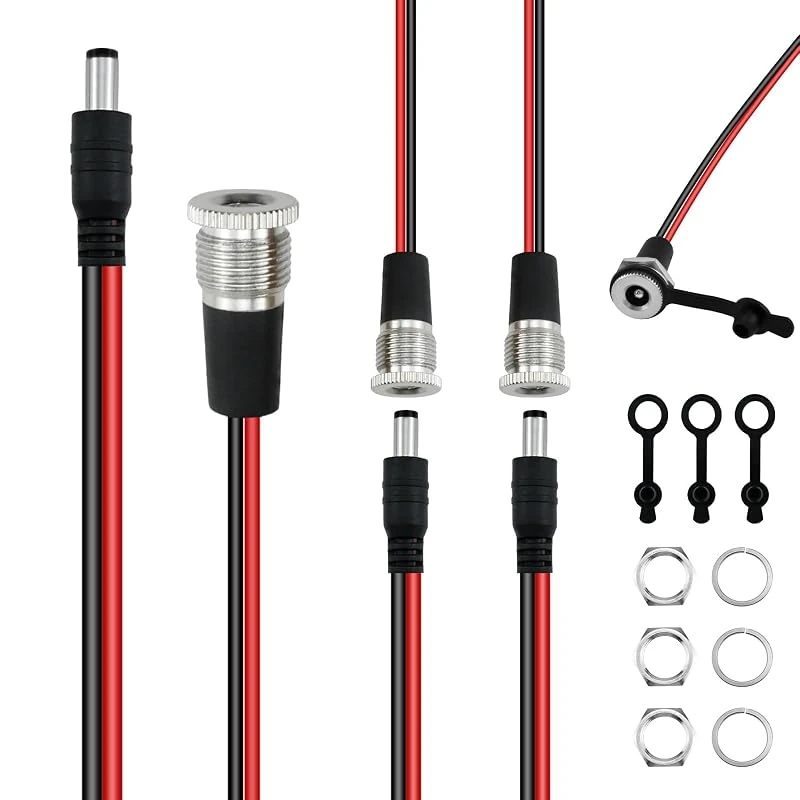
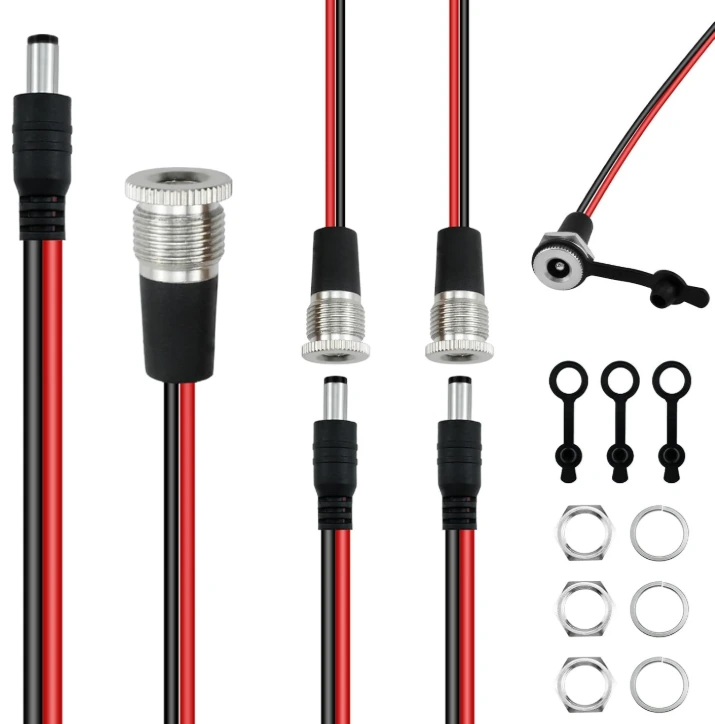
Document exact Amazon parts, Tolex order, and estimated sales tax

diff --git a/parts.html b/parts.html
@@ -14,9 +14,9 @@
 <dl class="board-specs"><div><dt>Flash</dt><dd>16 MB</dd></div><div><dt>PSRAM</dt><dd>8 MB</dd></div><div><dt>Radio</dt><dd>Bluetooth LE</dd></div></dl>
 <div class="actions"><a class="button primary" href="wiring.html#hub75">See the wiring map ↗</a><a class="button" href="https://docs.espressif.com/projects/esp-dev-kits/en/latest/esp32s3/esp32-s3-devkitc-1/user_guide_v1.1.html">Espressif board guide ↗</a></div></div>
 <figure class="detail-photo"><a href="docs/images/gpio_layout.png"><img src="docs/images/gpio_layout.png" alt="Reference photo of an ESP32-S3 board with its GPIO pins labeled" width="943" height="747"></a><figcaption>ESP32-S3 pinout reference</figcaption></figure></article>
-<div class="budget"><div><p class="eyebrow">Subtotal for priced items</p><p class="budget-total" id="budget-total" aria-live="polite">$136.72</p><p id="budget-detail">7 of 10 line items priced</p></div><div><p>Prices are in USD. Prefilled figures combine the panel’s delivered cost, retail price references, and estimates for the ESP32-S3 and button set. Enter a price for each row, including sets or quantities, to build your own estimate.</p><p class="small">Add taxes and shipping to your line costs if you want them included.</p><button class="button" type="reset" form="budget-form">Reset prices</button></div></div>
-<form id="budget-form" action="parts.html"><div class="table-wrap"><table class="parts-table"><thead><tr><th scope="col">Component</th><th scope="col">Quantity</th><th scope="col">Reference USD</th><th scope="col">Your USD</th></tr></thead><tbody><tr><th scope="row">P2 RGB matrix<small>128 × 64, 256 × 128 mm, HUB75E, 1/32 scan, ICN2038S-family driver</small></th><td>1</td><td>$29.88 item<br>$46.05 delivered</td><td><label class="sr-only" for="part-0">Your line cost for P2 RGB matrix</label><input id="part-0" name="part-0" type="number" min="0" step="0.01" inputmode="decimal" value="46.05" placeholder="—"></td></tr><tr><th scope="row">ESP32-S3 controller<small>DevKitC-1 N16R8, 16 MB flash / 8 MB PSRAM</small></th><td>1</td><td>≈$19.00</td><td><label class="sr-only" for="part-1">Your line cost for ESP32-S3 controller</label><input id="part-1" name="part-1" type="number" min="0" step="0.01" inputmode="decimal" value="19.00" placeholder="—"></td></tr><tr><th scope="row">HUB75 adapter<small>LLidgermal ESP32 LED Matrix Adapter · Dual Power Input &amp; HUB75 Interface</small><a class="part-photo" href="site-assets/llidgermal-hub75-adapter.webp"><img src="site-assets/llidgermal-hub75-adapter.webp" alt="LLidgermal HUB75 adapter with ESP32 headers and red power connectors" loading="lazy"></a><a href="https://www.amazon.com/dp/B0FVNMRRTB">Amazon · B0FVNMRRTB ↗</a></th><td>1</td><td>$24.80 listing</td><td><label class="sr-only" for="part-2">Your line cost for HUB75 adapter</label><input id="part-2" name="part-2" type="number" min="0" step="0.01" inputmode="decimal" value="24.80" placeholder="—"></td></tr><tr><th scope="row">5 V DC power supply<small>ADRESUNO 5 V / 10 A / 50 W</small><a class="part-photo" href="site-assets/adresuno-5v-power-supply.webp"><img src="site-assets/adresuno-5v-power-supply.webp" alt="ADRESUNO 5 V power brick, AC cord, and barrel connector" loading="lazy"></a><a href="https://www.amazon.com/dp/B0D76F4W1C">Amazon · B0D76F4W1C ↗</a></th><td>1</td><td>$19.99<small><a href="https://www.asinsight.com/report/US/5v-5a-power-supply">Amazon price tracker snapshot</a></small></td><td><label class="sr-only" for="part-3">Your line cost for 5 V DC power supply</label><input id="part-3" name="part-3" type="number" min="0" step="0.01" inputmode="decimal" value="19.99" placeholder="—"></td></tr><tr><th scope="row">Panel DC jack<small>SDTC Tech 5.5 × 2.5 mm threaded jack and pigtail · three sets per kit, one used</small><a class="part-photo" href="site-assets/sdtc-dc-jack-kit.webp"><img src="site-assets/sdtc-dc-jack-kit.webp" alt="SDTC Tech threaded DC sockets, barrel pigtails, dust caps, and mounting hardware" loading="lazy"></a><a href="https://www.amazon.com/dp/B0B6FFN4V5">Amazon · B0B6FFN4V5 ↗</a></th><td>1 kit</td><td>$8.99<small><a href="https://tiendamia.com.uy/p/amz/b0b6ffn4v5/sdtc-tech-3-juegos-de-0-2-x-0-1-in-10a">Tiendamia listing · three-set kit</a></small></td><td><label class="sr-only" for="part-4">Your line cost for Panel DC jack</label><input id="part-4" name="part-4" type="number" min="0" step="0.01" inputmode="decimal" value="8.99" placeholder="—"></td></tr><tr><th scope="row">Panel USB-C extension<small>Poyiccot 1 ft panel-mount data extension</small><a class="part-photo" href="site-assets/poyiccot-panel-usbc.webp"><img src="site-assets/poyiccot-panel-usbc.webp" alt="Poyiccot USB-C cable with a screw-mount female socket and a male plug" loading="lazy"></a><a href="https://www.amazon.com/dp/B086YBP5VW">Amazon · B086YBP5VW ↗</a></th><td>1</td><td>$9.89<small><a href="https://www.amazon.com/dp/B086YBP5VW">Amazon listing</a></small></td><td><label class="sr-only" for="part-5">Your line cost for Panel USB-C extension</label><input id="part-5" name="part-5" type="number" min="0" step="0.01" inputmode="decimal" value="9.89" placeholder="—"></td></tr><tr><th scope="row">Illuminated buttons<small>12 mm momentary, three used</small></th><td>1 set</td><td>≈$8.00</td><td><label class="sr-only" for="part-6">Your line cost for Illuminated buttons</label><input id="part-6" name="part-6" type="number" min="0" step="0.01" inputmode="decimal" value="8.00" placeholder="—"></td></tr><tr><th scope="row">Corner protectors<small>uxcell gold-tone corner protectors with screws. Installed size and price unconfirmed.</small><a class="part-photo" href="site-assets/uxcell-corner-protectors.webp"><img src="site-assets/uxcell-corner-protectors.webp" alt="Gold-tone uxcell corner covers and mounting screws from the listing" loading="lazy"></a><a href="https://www.amazon.com/dp/B0DBG9KCJX">Amazon · B0DBG9KCJX ↗</a></th><td>1 set</td><td>$9.89 listing<br><small>Returned 33 mm selection</small></td><td><label class="sr-only" for="part-7">Your line cost for Corner protectors</label><input id="part-7" name="part-7" type="number" min="0" step="0.01" inputmode="decimal" placeholder="—"></td></tr><tr><th scope="row">Cabinet and finish<small>Wood, Tolex, adhesive, and fasteners</small></th><td>1 build</td><td>Pending</td><td><label class="sr-only" for="part-8">Your line cost for Cabinet and finish</label><input id="part-8" name="part-8" type="number" min="0" step="0.01" inputmode="decimal" placeholder="—"></td></tr><tr><th scope="row">Wiring and connectors<small>HUB75 ribbon, power wire, connectors, and consumables</small></th><td>1 lot</td><td>Pending</td><td><label class="sr-only" for="part-9">Your line cost for Wiring and connectors</label><input id="part-9" name="part-9" type="number" min="0" step="0.01" inputmode="decimal" placeholder="—"></td></tr></tbody></table></div></form>
-<p class="small">The $136.72 starting subtotal covers seven items and is a partial build estimate. Retail prices can change. The $9.89 corner listing is a reference for the returned 33 mm selection and is excluded.</p><details><summary>See the final panel’s delivered cost breakdown</summary><p class="small">Item $29.88 + shipping $20.68 − shipping discount $20.00 + import charges $10.59 + sales tax $4.90 = <strong>$46.05 delivered</strong>.</p></details><div class="component-photos">
+<div class="budget"><div><p class="eyebrow">Subtotal for priced items</p><p class="budget-total" id="budget-total" aria-live="polite">$173.81</p><p id="budget-detail">8 of 11 line items priced</p><p class="small" id="budget-tax">Includes $5.09 estimated Amazon sales tax</p></div><div><p>Prices are in USD. Prefilled figures include the delivered panel and Tolex, Amazon prices, and estimates for the ESP32-S3 and button set. Enter a price for each row, including sets or quantities, to build your own estimate.</p><p class="small">Amazon rows add 8% sales tax automatically. Enter Amazon amounts before tax. The panel and Tolex already include their documented delivery costs.</p><button class="button" type="reset" form="budget-form">Reset prices</button></div></div>
+<form id="budget-form" action="parts.html"><div class="table-wrap"><table class="parts-table"><thead><tr><th scope="col">Component</th><th scope="col">Quantity</th><th scope="col">Reference USD</th><th scope="col">Your base USD</th></tr></thead><tbody><tr><th scope="row">P2 RGB matrix<small>128 × 64, 256 × 128 mm, HUB75E, 1/32 scan, ICN2038S-family driver</small></th><td>1</td><td>$29.88 item<br>$46.05 delivered</td><td><label class="sr-only" for="part-0">Your line cost for P2 RGB matrix</label><input id="part-0" name="part-0" type="number" min="0" step="0.01" inputmode="decimal" value="46.05" placeholder="—"></td></tr><tr><th scope="row">ESP32-S3 controller<small>DevKitC-1 N16R8, 16 MB flash / 8 MB PSRAM</small></th><td>1</td><td>≈$19.00</td><td><label class="sr-only" for="part-1">Your line cost for ESP32-S3 controller</label><input id="part-1" name="part-1" type="number" min="0" step="0.01" inputmode="decimal" value="19.00" placeholder="—"></td></tr><tr><th scope="row">HUB75 adapter<small>LLidgermal ESP32 LED Matrix Adapter · Dual Power Input &amp; HUB75 Interface</small><a class="part-photo" href="site-assets/llidgermal-hub75-adapter.webp"><img src="site-assets/llidgermal-hub75-adapter.webp" alt="LLidgermal HUB75 adapter with ESP32 headers and red power connectors" loading="lazy"></a><a href="https://www.amazon.com/dp/B0FVNMRRTB">Amazon · B0FVNMRRTB ↗</a></th><td>1</td><td>$24.80<small>Amazon listing · $26.78 with tax</small></td><td><label class="sr-only" for="part-2">Your line cost for HUB75 adapter</label><input data-amazon-tax id="part-2" name="part-2" type="number" min="0" step="0.01" inputmode="decimal" value="24.80" placeholder="—"></td></tr><tr><th scope="row">5 V DC power supply<small>ADRESUNO 5 V / 10 A / 50 W</small><a class="part-photo" href="site-assets/adresuno-5v-power-supply.webp"><img src="site-assets/adresuno-5v-power-supply.webp" alt="ADRESUNO 5 V power brick, AC cord, and barrel connector" loading="lazy"></a><a href="https://www.amazon.com/dp/B0D76F4W1C">Amazon · B0D76F4W1C ↗</a></th><td>1</td><td>$19.99<small><a href="https://www.amazon.com/dp/B0D76F4W1C">Amazon listing · $21.59 with tax</a></small></td><td><label class="sr-only" for="part-3">Your line cost for 5 V DC power supply</label><input data-amazon-tax id="part-3" name="part-3" type="number" min="0" step="0.01" inputmode="decimal" value="19.99" placeholder="—"></td></tr><tr><th scope="row">Panel DC jack<small>SDTC Tech 5.5 × 2.5 mm threaded jack and pigtail · three sets per kit, one used</small><a class="part-photo" href="site-assets/sdtc-dc-jack-kit.webp"><img src="site-assets/sdtc-dc-jack-kit.webp" alt="SDTC Tech threaded DC sockets, barrel pigtails, dust caps, and mounting hardware" loading="lazy"></a><a href="https://www.amazon.com/dp/B0B6FFN4V5">Amazon · B0B6FFN4V5 ↗</a></th><td>1 kit</td><td>$8.99<small><a href="https://www.amazon.com/dp/B0B6FFN4V5">Amazon purchase price · $9.71 with tax</a></small></td><td><label class="sr-only" for="part-4">Your line cost for Panel DC jack</label><input data-amazon-tax id="part-4" name="part-4" type="number" min="0" step="0.01" inputmode="decimal" value="8.99" placeholder="—"></td></tr><tr><th scope="row">Panel USB-C extension<small>Poyiccot 1 ft panel-mount data extension</small><a class="part-photo" href="site-assets/poyiccot-panel-usbc.webp"><img src="site-assets/poyiccot-panel-usbc.webp" alt="Poyiccot USB-C cable with a screw-mount female socket and a male plug" loading="lazy"></a><a href="https://www.amazon.com/dp/B086YBP5VW">Amazon · B086YBP5VW ↗</a></th><td>1</td><td>$9.89<small><a href="https://www.amazon.com/dp/B086YBP5VW">Amazon listing · $10.68 with tax</a></small></td><td><label class="sr-only" for="part-5">Your line cost for Panel USB-C extension</label><input data-amazon-tax id="part-5" name="part-5" type="number" min="0" step="0.01" inputmode="decimal" value="9.89" placeholder="—"></td></tr><tr><th scope="row">Illuminated buttons<small>12 mm momentary, three used</small></th><td>1 set</td><td>≈$8.00</td><td><label class="sr-only" for="part-6">Your line cost for Illuminated buttons</label><input id="part-6" name="part-6" type="number" min="0" step="0.01" inputmode="decimal" value="8.00" placeholder="—"></td></tr><tr><th scope="row">Corner protectors<small>uxcell gold-tone corner protectors with screws. Installed size and price unconfirmed.</small><a class="part-photo" href="site-assets/uxcell-corner-protectors.webp"><img src="site-assets/uxcell-corner-protectors.webp" alt="Gold-tone uxcell corner covers and mounting screws from the listing" loading="lazy"></a><a href="https://www.amazon.com/dp/B0DBG9KCJX">Amazon · B0DBG9KCJX ↗</a></th><td>1 set</td><td>$9.89 listing<br><small>Returned 33 mm selection · $10.68 with tax</small></td><td><label class="sr-only" for="part-7">Your line cost for Corner protectors</label><input data-amazon-tax id="part-7" name="part-7" type="number" min="0" step="0.01" inputmode="decimal" placeholder="—"></td></tr><tr><th scope="row">Cabinet materials<small>Wood, adhesive, and fasteners</small></th><td>1 build</td><td>Pending</td><td><label class="sr-only" for="part-8">Your line cost for Cabinet and finish</label><input id="part-8" name="part-8" type="number" min="0" step="0.01" inputmode="decimal" placeholder="—"></td></tr><tr><th scope="row">Wiring and connectors<small>HUB75 ribbon, power wire, connectors, and consumables</small></th><td>1 lot</td><td>Pending</td><td><label class="sr-only" for="part-9">Your line cost for Wiring and connectors</label><input id="part-9" name="part-9" type="number" min="0" step="0.01" inputmode="decimal" placeholder="—"></td></tr><tr><th scope="row">Cabinet covering<small>Mojotone Fender Style Smooth Brown Vinyl Tolex · 54″ × 36″ cut, item 7311003</small><a class="part-photo" href="site-assets/mojotone-smooth-brown-tolex.webp"><img src="site-assets/mojotone-smooth-brown-tolex.webp" alt="Mojotone smooth brown vinyl Tolex sample" loading="lazy"></a><a href="https://mojotone.com/products/fender-style-smooth-brown-vinyl-tolex-54-width?variant=41689733595232">Mojotone · 7311003 ↗</a></th><td>1 cut</td><td>$22.05 item<br>$9.95 shipping<br><strong>$32.00 delivered</strong></td><td><label class="sr-only" for="part-10">Your delivered cost for cabinet covering</label><input id="part-10" name="part-10" type="number" min="0" step="0.01" inputmode="decimal" value="32.00"></td></tr></tbody></table></div></form>
+<p class="small">The $173.81 starting subtotal is a partial build estimate. It includes $5.09 estimated Amazon tax. The returned 33 mm corner listing is excluded.</p><details><summary>See the final panel’s delivered cost breakdown</summary><p class="small">Item $29.88 + shipping $20.68 − shipping discount $20.00 + import charges $10.59 + sales tax $4.90 = <strong>$46.05 delivered</strong>.</p></details><div class="component-photos">
 <figure class="detail-photo"><img src="site-assets/scoreboard-powered.webp" alt="The final RGB matrix powered on and displaying green HOME and blue AWAY scores" loading="lazy"><figcaption>P2 RGB matrix installed in the finished cabinet</figcaption></figure>
 <figure class="detail-photo"><img src="docs/images/button_harness.png" alt="Three momentary push buttons with their wires assembled into a harness" loading="lazy"><figcaption>Three momentary switches and their wiring harness</figcaption></figure>
 </div><p class="small">The original P1.53 prototype panel and shipping totaled $77.95. The finished scoreboard uses the P2 panel above.</p>

diff --git a/build.html b/build.html
@@ -12,7 +12,7 @@
 <section id="firmware" class="guide-section"><h2>Flash and test</h2><p>In Arduino IDE select <strong>ESP32S3 Dev Module</strong> and the serial port that appears when you plug in the board. The firmware compiled with Arduino-ESP32 <strong>3.3.7</strong>. Install <strong>ESP32 HUB75 MatrixPanel I2S DMA</strong> and <strong>Adafruit GFX</strong>.</p>
 <div class="choice"><div><h3>Physical controls</h3><p>Use the standalone sketch to score from the cabinet buttons.</p><a href="https://github.com/mjf028/scoreboard-pages/blob/main/firmware/scoreboard/scoreboard.ino">Open standalone sketch ↗</a></div><div><h3>Physical controls + Bluetooth</h3><p>Use the BLE sketch for the buttons and the iPhone controller, including editable names.</p><a href="https://github.com/mjf028/scoreboard-pages/blob/main/firmware/scoreboard_ble/scoreboard_ble.ino">Open BLE sketch ↗</a></div></div>
 <p>Keep each sketch in its matching folder. Upload, then test a short press and a hold of at least 600 ms on each score button. Hold Reset to clear both scores. The lower blue row is Player 1 and the upper green row is Player 2.</p><a href="https://github.com/mjf028/scoreboard-pages/blob/main/docs/BLE-FIRMWARE-AND-NRF-CONNECT.md">BLE protocol and nRF Connect checklist ↗</a></section>
-<section id="enclosure" class="guide-section"><h2>Fit the cabinet</h2><p>Measure your panel before cutting the opening. The documented panel is 256 × 128 mm, but leave room for its frame, connectors, and ribbon cable. Dry-fit the top buttons, DC jack, and USB-C extension before applying the Tolex. Keep the rear panel removable for service and leave clearance around the wiring.</p><div class="build-gallery"><figure class="detail-photo build-photo side-ports"><a href="site-assets/cabinet-side-ports.webp"><img src="site-assets/cabinet-side-ports.webp" alt="Side of the Tolex-covered cabinet with the USB-C service port above the DC power jack" loading="lazy"></a><figcaption>Side panel · USB-C for service, DC jack for power</figcaption></figure><figure class="detail-photo build-photo "><a href="site-assets/cabinet-open.webp"><img src="site-assets/cabinet-open.webp" alt="Open scoreboard cabinet showing the LED matrix, adapter, ribbon cable, and wire routing" loading="lazy"></a><figcaption>Rear access · matrix, adapter, and wiring</figcaption></figure></div><p>The side-mounted connectors keep power and USB service reachable from outside. Inside, the removable rear panel gives access to the adapter and matrix connections.</p><div class="actions"><a class="button" href="wiring.html#inside">See the installed wiring ↗</a><a class="button" href="https://github.com/mjf028/scoreboard-pages/blob/main/docs/hardware.md">Full hardware notes ↗</a></div></section>
+<section id="enclosure" class="guide-section"><h2>Fit the cabinet</h2><p>Measure your panel before cutting the opening. The documented panel is 256 × 128 mm, but leave room for its frame, connectors, and ribbon cable. Dry-fit the top buttons, DC jack, and USB-C extension before applying the <a href="https://mojotone.com/products/fender-style-smooth-brown-vinyl-tolex-54-width?variant=41689733595232">Mojotone smooth brown vinyl Tolex</a>. Keep the rear panel removable for service and leave clearance around the wiring.</p><div class="build-gallery"><figure class="detail-photo build-photo side-ports"><a href="site-assets/cabinet-side-ports.webp"><img src="site-assets/cabinet-side-ports.webp" alt="Side of the Tolex-covered cabinet with the USB-C service port above the DC power jack" loading="lazy"></a><figcaption>Side panel · USB-C for service, DC jack for power</figcaption></figure><figure class="detail-photo build-photo "><a href="site-assets/cabinet-open.webp"><img src="site-assets/cabinet-open.webp" alt="Open scoreboard cabinet showing the LED matrix, adapter, ribbon cable, and wire routing" loading="lazy"></a><figcaption>Rear access · matrix, adapter, and wiring</figcaption></figure></div><p>The side-mounted connectors keep power and USB service reachable from outside. Inside, the removable rear panel gives access to the adapter and matrix connections.</p><div class="actions"><a class="button" href="wiring.html#inside">See the installed wiring ↗</a><a class="button" href="https://github.com/mjf028/scoreboard-pages/blob/main/docs/hardware.md">Full hardware notes ↗</a></div></section>
 <section id="panel-history" class="guide-section"><p class="eyebrow">What changed on the bench</p><h2>The P1.53 detour</h2>
 <p>The first panel was a 320 × 160 mm LEDLightsWorld commercial-signage module with 208 × 104 pixels and 1/52 scan. It cost <strong>$58.95 plus $19.00 shipping</strong>. The connector looked familiar, but that geometry and scan arrangement didn’t come up reliably with this ESP32 direct-drive setup.</p>
 <div class="choice panel-compare"><div><h3>P1.53 prototype</h3><p>208 × 104 pixels · 1/52 scan</p><p><strong>$77.95</strong> including shipping</p></div><div><h3>P2 production panel</h3><p>128 × 64 pixels · 1/32 scan</p><p><strong>$46.05</strong> delivered</p></div></div>

diff --git a/site-assets/budget.js b/site-assets/budget.js
@@ -2,12 +2,23 @@ const form = document.querySelector("#budget-form");
 const inputs = [...form.querySelectorAll("input")];
 const total = document.querySelector("#budget-total");
 const detail = document.querySelector("#budget-detail");
+const tax = document.querySelector("#budget-tax");
+const amazonTaxPercent = 8;
 const currency = new Intl.NumberFormat("en-US", { style: "currency", currency: "USD" });
 
 function updateSubtotal() {
   const entered = inputs.filter((input) => input.value !== "" && input.validity.valid);
-  const cents = entered.reduce((sum, input) => sum + Math.round(input.valueAsNumber * 100), 0);
-  total.textContent = currency.format(cents / 100);
+  let cents = 0;
+  let taxCents = 0;
+  for (const input of entered) {
+    const lineCents = Math.round(input.valueAsNumber * 100);
+    cents += lineCents;
+    if (input.hasAttribute("data-amazon-tax")) {
+      taxCents += Math.round(lineCents * amazonTaxPercent / 100);
+    }
+  }
+  total.textContent = currency.format((cents + taxCents) / 100);
+  tax.textContent = "Includes " + currency.format(taxCents / 100) + " estimated Amazon sales tax";
   detail.textContent = entered.length + " of " + inputs.length + " line items priced";
 }
 

diff --git a/docs/bill-of-materials.md b/docs/bill-of-materials.md
@@ -8,21 +8,21 @@ This is the hardware record for the completed scoreboard. Where an exact purchas
 |---|---|---:|---|---:|---|
 | RGB matrix panel | P2 indoor RGB HUB75/HUB75E, 256×128 mm, 128×64, 1/32 scan, SMD1515, Chipone 2038S-family driver | 1 | Original order | $29.88 item / $46.05 delivered | Production display |
 | ESP32 controller | ESP32-S3-DevKitC-1 N16R8, 16 MB flash / 8 MB PSRAM | 1 | ESP32-S3 purchase | ≈$19 | Main controller; provides Wi-Fi/BLE capability for future expansion |
-| HUB75 adapter | LLidgermal **ESP32 LED Matrix Adapter Board with Dual Power Input & HUB75 Interface** | 1 | [Amazon B0FVNMRRTB](https://www.amazon.com/dp/B0FVNMRRTB) | $24.80 current listing shown in project record | Connects the ESP32-S3 to the HUB75 panel and provides convenient power distribution; listing supports ESP32/ESP32-S3 |
-| Production power supply | ADRESUNO **5V 10A 50W AC/DC power supply** | 1 | [Amazon B0D76F4W1C](https://www.amazon.com/dp/B0D76F4W1C) | [$19.99 · Amazon price tracker snapshot](https://www.asinsight.com/report/US/5v-5a-power-supply) | **Final production PSU**; 100–240V AC input, regulated 5V DC / 10A output |
-| Panel-mount DC connector | SDTC Tech **5.5×2.5 mm 10A threaded female DC power jack + male pigtail kit** | 1 set/component used | [Amazon B0B6FFN4V5](https://www.amazon.com/dp/B0B6FFN4V5) | [$8.99 · Tiendamia listing · three-set kit](https://tiendamia.com.uy/p/amz/b0b6ffn4v5/sdtc-tech-3-juegos-de-0-2-x-0-1-in-10a) | Brings the 5V supply connection cleanly through the enclosure |
-| Panel-mount USB-C extension | Poyiccot **USB 3.1 Type-C panel-mount extension cable**, 1 ft, male-to-female, 10 Gbps / 60W | 1 | [Amazon B086YBP5VW](https://www.amazon.com/dp/B086YBP5VW) | [$9.89 · Amazon listing](https://www.amazon.com/dp/B086YBP5VW) | External USB-C access for programming/service without opening the enclosure |
-| Decorative corner protectors | uxcell **Decorative Box Corner Cover / Metal Edge Guard with screws**, gold | 4 | [Amazon B0DBG9KCJX](https://www.amazon.com/dp/B0DBG9KCJX) | $9.89 listing for the returned 33 mm selection | Brass/gold-tone enclosure corner protection. Check the size against your enclosure. |
+| HUB75 adapter | LLidgermal **ESP32 LED Matrix Adapter Board with Dual Power Input & HUB75 Interface** | 1 | [Amazon B0FVNMRRTB](https://www.amazon.com/dp/B0FVNMRRTB) | $24.80 Amazon listing / $26.78 with 8% tax | Connects the ESP32-S3 to the HUB75 panel and provides convenient power distribution; listing supports ESP32/ESP32-S3 |
+| Production power supply | ADRESUNO **5V 10A 50W AC/DC power supply** | 1 | [Amazon B0D76F4W1C](https://www.amazon.com/dp/B0D76F4W1C) | $19.99 Amazon listing / $21.59 with 8% tax | **Final production PSU**; 100–240V AC input, regulated 5V DC / 10A output |
+| Panel-mount DC connector | SDTC Tech **5.5×2.5 mm 10A threaded female DC power jack + male pigtail kit** | 1 set/component used | [Amazon B0B6FFN4V5](https://www.amazon.com/dp/B0B6FFN4V5) | $8.99 Amazon purchase price for three-set kit / $9.71 with 8% tax | Brings the 5V supply connection cleanly through the enclosure |
+| Panel-mount USB-C extension | Poyiccot **USB 3.1 Type-C panel-mount extension cable**, 1 ft, male-to-female, 10 Gbps / 60W | 1 | [Amazon B086YBP5VW](https://www.amazon.com/dp/B086YBP5VW) | $9.89 Amazon listing / $10.68 with 8% tax | External USB-C access for programming/service without opening the enclosure |
+| Decorative corner protectors | uxcell **Decorative Box Corner Cover / Metal Edge Guard with screws**, gold | 4 | [Amazon B0DBG9KCJX](https://www.amazon.com/dp/B0DBG9KCJX) | $9.89 Amazon listing / $10.68 with 8% tax (returned 33 mm selection) | Brass/gold-tone enclosure corner protection. Check the size against your enclosure. |
 | Illuminated momentary buttons | 12 mm illuminated momentary push buttons | 3 | Button set | ≈$8/set | Player One, Player Two and Reset controls |
 | Enclosure | Custom wood box / frame | 1 | Fabricated for project | Not recovered | Supports the panel, controls and electronics |
-| Exterior finish | Brown textured enclosure covering/finish | — | Build material | Not recovered | Final exterior finish |
+| Exterior finish | Mojotone Fender Style Smooth Brown Vinyl Tolex, 54″ × 36″ cut, item 7311003 | 1 cut | [Mojotone](https://mojotone.com/products/fender-style-smooth-brown-vinyl-tolex-54-width?variant=41689733595232) | $22.05 item + $9.95 shipping = $32.00 delivered | Cabinet wrap |
 | Wiring / assembly hardware | Wire, HUB75 ribbon, connectors, fasteners, adhesive and miscellaneous consumables | — | Various | Not recovered | Internal assembly |
 
 ## Known production hardware
 
 The production power path is no longer an unknown: the finished scoreboard uses the **ADRESUNO 5V 10A 50W supply (ASIN B0D76F4W1C)**. The enclosure also uses the **SDTC Tech 5.5×2.5 mm panel-mount DC connector**, while the **Poyiccot panel-mount USB-C extension** provides service/programming access. The ESP32-S3 connects to the matrix through the **LLidgermal HUB75 adapter board**.
 
-The exact *paid* prices for several of these items are still not present in the project records, so they are intentionally left as `Not recovered`. A current/listing price is only shown where a supplied project screenshot recorded it; it should not be interpreted as the historical purchase price.
+The build estimate applies 8% sales tax to Amazon lines, rounded to the nearest cent per line. The panel and Tolex use their delivered costs. The partial estimate is **$173.81**, including **$5.09** Amazon tax and excluding the returned corner-protector selection. Listing figures are budget references.
 
 The final P2 panel order was $29.88 for the item, $20.68 shipping, −$20.00 shipping discount, $10.59 import charges, and $4.90 sales tax, for a **$46.05 delivered cost**.
 
@@ -55,8 +55,8 @@ This table is retained only as historical planning context. It is **not** the fi
 To turn the BOM into an exact project-cost ledger, the remaining useful order details are:
 
 1. Installed corner protector size and purchase price
-2. Actual paid prices for the ESP32-S3, LLidgermal adapter, ADRESUNO PSU, DC jack, USB-C extension, corner protectors and button set
-3. Enclosure wood/material and exterior finish cost
+2. Actual paid prices for the ESP32-S3, LLidgermal adapter, ADRESUNO PSU, USB-C extension, and button set
+3. Cabinet wood, adhesive, and fastener costs
 4. Miscellaneous connectors, wire and fasteners if consumables are to be included
 
 The component identities are now documented; only the missing historical paid amounts prevent an exact final-build total.
